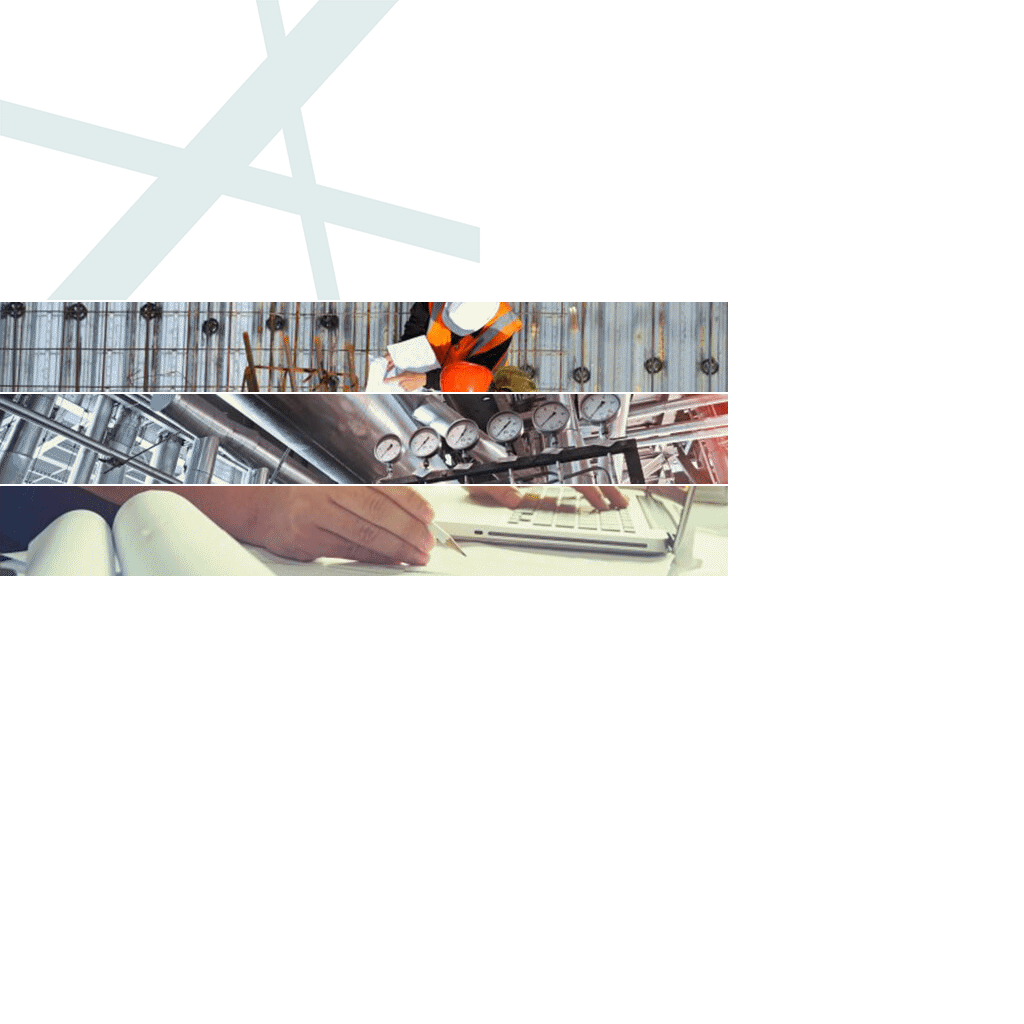
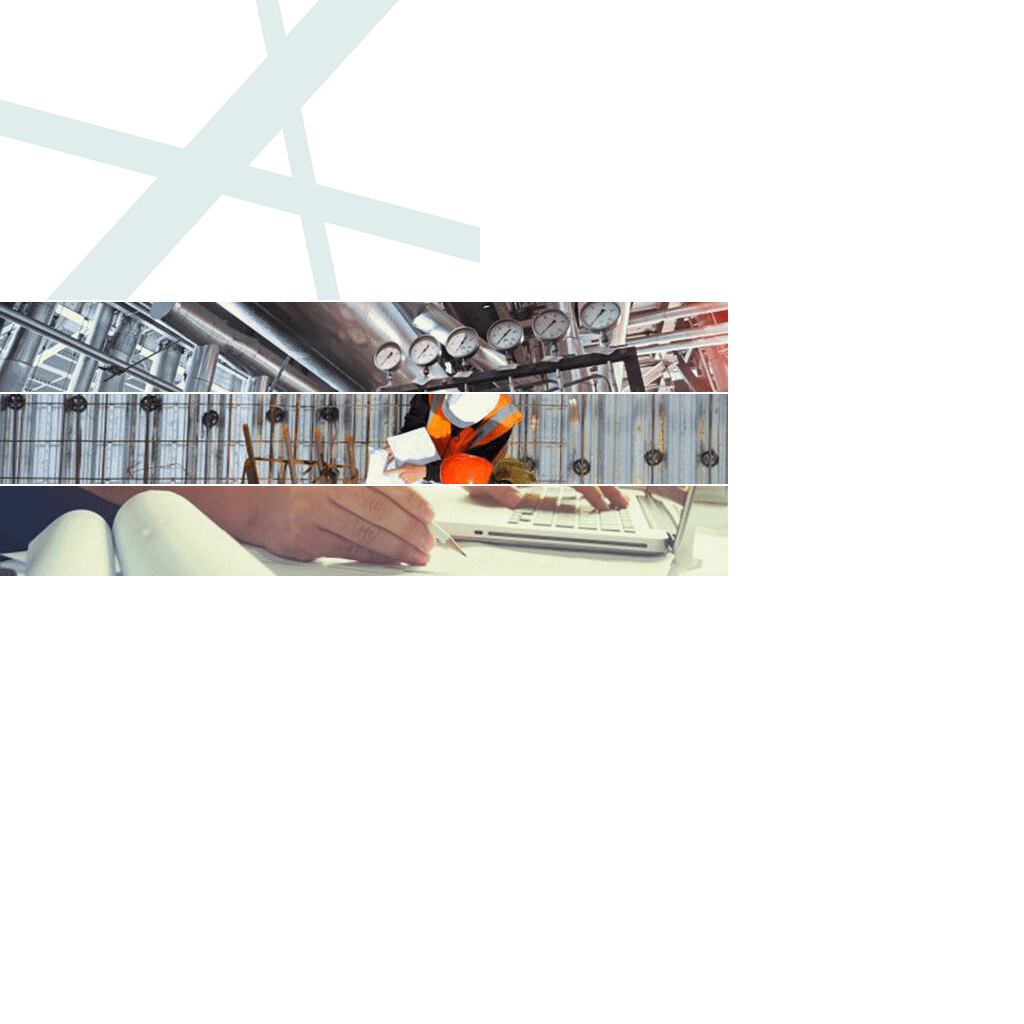
Add files via upload

Changed region(s): [[0.0, 0.2812, 0.7188, 0.5]]

diff --git a/projector_728x90.js b/projector_728x90.js
@@ -3,7 +3,7 @@
 var p; // shortcut to reference prototypes
 var lib={};var ss={};var img={};
 lib.ssMetadata = [
-		{name:"projector_728x90_atlas_", frames: [[0,486,728,90],[0,394,728,90],[0,302,728,90],[0,0,480,300]]}
+		{name:"projector_728x90_atlas_", frames: [[0,486,728,90],[0,302,728,90],[0,394,728,90],[0,0,480,300]]}
 ];
 
 
@@ -633,6 +633,47 @@ function getMCSymbolPrototype(symbol, nominalBounds, frameBounds) {
 }).prototype = getMCSymbolPrototype(lib.logo, new cjs.Rectangle(256.4,-119.6,103.2,21.9), null);
 
 
+(lib.btn = function(mode,startPosition,loop) {
+	this.initialize(mode,startPosition,loop,{});
+
+	// Layer_1
+	this.shape = new cjs.Shape();
[1 lines of base64/hex data omitted]
+	this.shape.setTransform(30.8,-187.6);
+
+	this.shape_1 = new cjs.Shape();
[1 lines of base64/hex data omitted]
+	this.shape_1.setTransform(16,-187.6);
+
+	this.shape_2 = new cjs.Shape();
+	this.shape_2.graphics.f("#FFFFFF").s().p("AgJA+IAAh7IATAAIAAB7g");
+	this.shape_2.setTransform(4.8,-187.6);
+
+	this.shape_3 = new cjs.Shape();
+	this.shape_3.graphics.f("#FFFFFF").s().p("AglA+IAAh7IAVAAIAABoIA2AAIAAATg");
+	this.shape_3.setTransform(-5.2,-187.6);
+
+	this.shape_4 = new cjs.Shape();
+	this.shape_4.graphics.f("#FFFFFF").s().p("AgoA+IAAh7IBRAAIAAASIg9AAIAAAiIA1AAIAAARIg1AAIAAAkIA9AAIAAASg");
+	this.shape_4.setTransform(-26,-187.6);
+
+	this.shape_5 = new cjs.Shape();
+	this.shape_5.graphics.f("#FFFFFF").s().p("AgjA6QgKgFgDgMQgDgNAAgcQAAgcADgMQADgMAKgFQALgFAYAAQAZAAAKAFQALAFADAMQADAMAAAcQAAAcgDANQgDAMgLAFQgKAFgZAAQgYAAgLgFgAgVgqQgGACgCAJQgBAIAAAXQAAAYABAIQACAIAGADQAFACAQAAQAQAAAGgCQAGgDACgIQABgIAAgYQAAgXgBgIQgCgJgGgCQgGgCgQAAQgQAAgFACg");
+	this.shape_5.setTransform(-41.2,-187.6);
+
+	this.shape_6 = new cjs.Shape();
+	this.shape_6.graphics.f("#FFFFFF").s().p("AglA+IAAh7IAVAAIAABoIA2AAIAAATg");
+	this.shape_6.setTransform(-54.9,-187.6);
+
+	this.shape_7 = new cjs.Shape();
+	this.shape_7.graphics.f("#EA322E").s().p("AzDDoQgKAAAAgJIAAm9QAAgJAKAAMAmHAAAQAKAAAAAJIAAG9QAAAJgKAAg");
+	this.shape_7.setTransform(-9,-187.1);
+
+	this.timeline.addTween(cjs.Tween.get({}).to({state:[{t:this.shape_7},{t:this.shape_6},{t:this.shape_5},{t:this.shape_4},{t:this.shape_3},{t:this.shape_2},{t:this.shape_1},{t:this.shape}]}).wait(1));
+
+}).prototype = getMCSymbolPrototype(lib.btn, new cjs.Rectangle(-132,-210.3,246,46.4), null);
+
+
 (lib.boxtrans2 = function(mode,startPosition,loop) {
 	this.initialize(mode,startPosition,loop,{});
 
@@ -750,7 +791,7 @@ if (loop == null) { loop = false; }	this.initialize(mode,startPosition,loop,{});
 	this.instance.alpha = 0;
 	this.instance._off = true;
 
-	this.timeline.addTween(cjs.Tween.get(this.instance).wait(191).to({_off:false},0).to({x:95.5,alpha:1},13,cjs.Ease.get(1)).wait(35).to({x:-78.5,alpha:0},11,cjs.Ease.get(1)).wait(1));
+	this.timeline.addTween(cjs.Tween.get(this.instance).wait(191).to({_off:false},0).to({x:95.5,alpha:1},13,cjs.Ease.get(1)).wait(35).to({x:-78.5,alpha:0},11,cjs.Ease.get(1)).to({_off:true},1).wait(95));
 
 	// text3
 	this.instance_1 = new lib.text3();
@@ -759,7 +800,7 @@ if (loop == null) { loop = false; }	this.initialize(mode,startPosition,loop,{});
 	this.instance_1.alpha = 0;
 	this.instance_1._off = true;
 
-	this.timeline.addTween(cjs.Tween.get(this.instance_1).wait(149).to({_off:false},0).to({x:123.9,alpha:1},11,cjs.Ease.get(1)).wait(31).to({x:-96,alpha:0},8,cjs.Ease.get(1)).to({_off:true},1).wait(51));
+	this.timeline.addTween(cjs.Tween.get(this.instance_1).wait(149).to({_off:false},0).to({x:123.9,alpha:1},11,cjs.Ease.get(1)).wait(31).to({x:-96,alpha:0},8,cjs.Ease.get(1)).to({_off:true},1).wait(146));
 
 	// text2
 	this.instance_2 = new lib.text2();
@@ -768,7 +809,7 @@ if (loop == null) { loop = false; }	this.initialize(mode,startPosition,loop,{});
 	this.instance_2.alpha = 0;
 	this.instance_2._off = true;
 
-	this.timeline.addTween(cjs.Tween.get(this.instance_2).wait(95).to({_off:false},0).to({x:168,alpha:1},14,cjs.Ease.get(1)).wait(40).to({x:-82.9,alpha:0},11,cjs.Ease.get(1)).to({_off:true},1).wait(90));
+	this.timeline.addTween(cjs.Tween.get(this.instance_2).wait(95).to({_off:false},0).to({x:168,alpha:1},14,cjs.Ease.get(1)).wait(40).to({x:-82.9,alpha:0},11,cjs.Ease.get(1)).to({_off:true},1).wait(185));
 
 	// text1
 	this.instance_3 = new lib.text1();
@@ -777,7 +818,7 @@ if (loop == null) { loop = false; }	this.initialize(mode,startPosition,loop,{});
 	this.instance_3.alpha = 0;
 	this.instance_3._off = true;
 
-	this.timeline.addTween(cjs.Tween.get(this.instance_3).wait(28).to({_off:false},0).to({x:168,alpha:1},15,cjs.Ease.get(1)).wait(52).to({x:-44.9,alpha:0},14,cjs.Ease.get(1)).wait(142));
+	this.timeline.addTween(cjs.Tween.get(this.instance_3).wait(28).to({_off:false},0).to({x:168,alpha:1},15,cjs.Ease.get(1)).wait(52).to({x:-44.9,alpha:0},14,cjs.Ease.get(1)).to({_off:true},142).wait(95));
 
 	// box2 copy
 	this.instance_4 = new lib.box2();
@@ -786,7 +827,7 @@ if (loop == null) { loop = false; }	this.initialize(mode,startPosition,loop,{});
 	this.instance_4.alpha = 0;
 	this.instance_4._off = true;
 
-	this.timeline.addTween(cjs.Tween.get(this.instance_4).wait(191).to({_off:false},0).to({x:40,alpha:1},14,cjs.Ease.get(1)).wait(34).to({x:20},0).to({x:398,alpha:0},11,cjs.Ease.get(1)).wait(1));
+	this.timeline.addTween(cjs.Tween.get(this.instance_4).wait(191).to({_off:false},0).to({x:40,alpha:1},14,cjs.Ease.get(1)).wait(34).to({x:20},0).to({x:398,alpha:0},11,cjs.Ease.get(1)).to({_off:true},1).wait(95));
 
 	// box copy
 	this.instance_5 = new lib.box();
@@ -795,7 +836,7 @@ if (loop == null) { loop = false; }	this.initialize(mode,startPosition,loop,{});
 	this.instance_5.alpha = 0.75;
 	this.instance_5._off = true;
 
-	this.timeline.addTween(cjs.Tween.get(this.instance_5).wait(149).to({_off:false},0).wait(1).to({regX:77.3,regY:-131.9,x:-208,y:-110.4,alpha:0.774},0).wait(1).to({x:-176.2,alpha:0.798},0).wait(1).to({x:-146,alpha:0.819},0).wait(1).to({x:-117.6,alpha:0.84},0).wait(1).to({x:-90.9,alpha:0.859},0).wait(1).to({x:-65.9,alpha:0.878},0).wait(1).to({x:-42.7,alpha:0.894},0).wait(1).to({x:-21.2,alpha:0.91},0).wait(1).to({x:-1.3,alpha:0.924},0).wait(1).to({x:16.7,alpha:0.938},0).wait(1).to({x:33.1,alpha:0.949},0).wait(1).to({x:47.7,alpha:0.96},0).wait(1).to({x:60.7,alpha:0.969},0).wait(1).to({x:71.8,alpha:0.978},0).wait(1).to({x:81.3,alpha:0.984},0).wait(1).to({x:89,alpha:0.99},0).wait(1).to({x:95,alpha:0.994},0).wait(1).to({x:99.4,alpha:0.998},0).wait(1).to({x:101.9,alpha:0.999},0).wait(1).to({regX:0,regY:0,x:25.5,y:21.5,alpha:1},0).wait(22).to({x:-321.4},14,cjs.Ease.get(1)).to({_off:true},36).wait(10));
+	this.timeline.addTween(cjs.Tween.get(this.instance_5).wait(149).to({_off:false},0).wait(1).to({regX:77.3,regY:-131.9,x:-208,y:-110.4,alpha:0.774},0).wait(1).to({x:-176.2,alpha:0.798},0).wait(1).to({x:-146,alpha:0.819},0).wait(1).to({x:-117.6,alpha:0.84},0).wait(1).to({x:-90.9,alpha:0.859},0).wait(1).to({x:-65.9,alpha:0.878},0).wait(1).to({x:-42.7,alpha:0.894},0).wait(1).to({x:-21.2,alpha:0.91},0).wait(1).to({x:-1.3,alpha:0.924},0).wait(1).to({x:16.7,alpha:0.938},0).wait(1).to({x:33.1,alpha:0.949},0).wait(1).to({x:47.7,alpha:0.96},0).wait(1).to({x:60.7,alpha:0.969},0).wait(1).to({x:71.8,alpha:0.978},0).wait(1).to({x:81.3,alpha:0.984},0).wait(1).to({x:89,alpha:0.99},0).wait(1).to({x:95,alpha:0.994},0).wait(1).to({x:99.4,alpha:0.998},0).wait(1).to({x:101.9,alpha:0.999},0).wait(1).to({regX:0,regY:0,x:25.5,y:21.5,alpha:1},0).wait(22).to({x:-321.4},14,cjs.Ease.get(1)).to({_off:true},36).wait(105));
 
 	// box2
 	this.instance_6 = new lib.box2();
@@ -804,7 +845,7 @@ if (loop == null) { loop = false; }	this.initialize(mode,startPosition,loop,{});
 	this.instance_6.alpha = 0;
 	this.instance_6._off = true;
 
-	this.timeline.addTween(cjs.Tween.get(this.instance_6).wait(95).to({_off:false},0).to({x:20,alpha:1},14,cjs.Ease.get(1)).wait(40).to({x:-253.9,alpha:0},11,cjs.Ease.get(1)).to({_off:true},1).wait(90));
+	this.timeline.addTween(cjs.Tween.get(this.instance_6).wait(95).to({_off:false},0).to({x:20,alpha:1},14,cjs.Ease.get(1)).wait(40).to({x:-253.9,alpha:0},11,cjs.Ease.get(1)).to({_off:true},1).wait(185));
 
 	// box
 	this.instance_7 = new lib.box();
@@ -813,56 +854,65 @@ if (loop == null) { loop = false; }	this.initialize(mode,startPosition,loop,{});
 	this.instance_7.alpha = 0.75;
 	this.instance_7._off = true;
 
-	this.timeline.addTween(cjs.Tween.get(this.instance_7).wait(18).to({_off:false},0).wait(1).to({regX:77.3,regY:-131.9,x:-208.3,y:-110.4,alpha:0.774},0).wait(1).to({x:-167.2,alpha:0.798},0).wait(1).to({x:-128.3,alpha:0.819},0).wait(1).to({x:-91.6,alpha:0.84},0).wait(1).to({x:-57.2,alpha:0.859},0).wait(1).to({x:-24.9,alpha:0.878},0).wait(1).to({x:5.1,alpha:0.894},0).wait(1).to({x:32.8,alpha:0.91},0).wait(1).to({x:58.4,alpha:0.924},0).wait(1).to({x:81.7,alpha:0.938},0).wait(1).to({x:102.8,alpha:0.949},0).wait(1).to({x:121.7,alpha:0.96},0).wait(1).to({x:138.4,alpha:0.969},0).wait(1).to({x:152.8,alpha:0.978},0).wait(1).to({x:165,alpha:0.984},0).wait(1).to({x:175,alpha:0.99},0).wait(1).to({x:182.8,alpha:0.994},0).wait(1).to({x:188.4,alpha:0.998},0).wait(1).to({x:191.7,alpha:0.999},0).wait(1).to({regX:0,regY:0,x:115.5,y:21.5,alpha:1},0).wait(57).to({x:-321.4},14,cjs.Ease.get(1)).to({_off:true},1).wait(141));
+	this.timeline.addTween(cjs.Tween.get(this.instance_7).wait(18).to({_off:false},0).wait(1).to({regX:77.3,regY:-131.9,x:-208.3,y:-110.4,alpha:0.774},0).wait(1).to({x:-167.2,alpha:0.798},0).wait(1).to({x:-128.3,alpha:0.819},0).wait(1).to({x:-91.6,alpha:0.84},0).wait(1).to({x:-57.2,alpha:0.859},0).wait(1).to({x:-24.9,alpha:0.878},0).wait(1).to({x:5.1,alpha:0.894},0).wait(1).to({x:32.8,alpha:0.91},0).wait(1).to({x:58.4,alpha:0.924},0).wait(1).to({x:81.7,alpha:0.938},0).wait(1).to({x:102.8,alpha:0.949},0).wait(1).to({x:121.7,alpha:0.96},0).wait(1).to({x:138.4,alpha:0.969},0).wait(1).to({x:152.8,alpha:0.978},0).wait(1).to({x:165,alpha:0.984},0).wait(1).to({x:175,alpha:0.99},0).wait(1).to({x:182.8,alpha:0.994},0).wait(1).to({x:188.4,alpha:0.998},0).wait(1).to({x:191.7,alpha:0.999},0).wait(1).to({regX:0,regY:0,x:115.5,y:21.5,alpha:1},0).wait(57).to({x:-321.4},14,cjs.Ease.get(1)).to({_off:true},1).wait(236));
+
+	// btn
+	this.instance_8 = new lib.btn();
+	this.instance_8.parent = this;
+	this.instance_8.setTransform(170,328);
+	this.instance_8.alpha = 0;
+	this.instance_8._off = true;
+
+	this.timeline.addTween(cjs.Tween.get(this.instance_8).wait(250).to({_off:false},0).to({y:233,alpha:1},10,cjs.Ease.get(1)).wait(74).to({alpha:0},11).wait(1));
 
 	// logo
-	this.instance_8 = new lib.logo();
-	this.instance_8.parent = this;
-	this.instance_8.setTransform(121,-20.5,1.601,1.601);
-	this.instance_8.alpha = 0;
+	this.instance_9 = new lib.logo();
+	this.instance_9.parent = this;
+	this.instance_9.setTransform(121,-20.5,1.601,1.601);
+	this.instance_9.alpha = 0;
 
-	this.timeline.addTween(cjs.Tween.get(this.instance_8).to({y:224.5,alpha:1},18,cjs.Ease.get(1)).wait(221).to({alpha:0},11).wait(1));
+	this.timeline.addTween(cjs.Tween.get(this.instance_9).to({y:224.5,alpha:1},18,cjs.Ease.get(1)).wait(316).to({alpha:0},11).wait(1));
 
 	// Layer_2
-	this.instance_9 = new lib.logobg();
-	this.instance_9.parent = this;
-	this.instance_9.setTransform(49.5,337.5);
+	this.instance_10 = new lib.logobg();
+	this.instance_10.parent = this;
+	this.instance_10.setTransform(49.5,337.5);
 
-	this.timeline.addTween(cjs.Tween.get(this.instance_9).to({_off:true},239).wait(12));
+	this.timeline.addTween(cjs.Tween.get(this.instance_10).to({_off:true},239).wait(107));
 
 	// A
-	this.instance_10 = new lib.A_1();
-	this.instance_10.parent = this;
-	this.instance_10.setTransform(130.8,141.1);
-	this.instance_10.alpha = 0;
+	this.instance_11 = new lib.A_1();
+	this.instance_11.parent = this;
+	this.instance_11.setTransform(130.8,141.1);
+	this.instance_11.alpha = 0;
 
-	this.timeline.addTween(cjs.Tween.get(this.instance_10).wait(1).to({regX:367,regY:-141.9,x:498.4,y:-0.8,alpha:0.112},0).wait(1).to({x:498.9,alpha:0.224},0).wait(1).to({x:499.4,alpha:0.336},0).wait(1).to({x:500,alpha:0.448},0).wait(1).to({x:500.5,alpha:0.559},0).wait(1).to({x:501.1,alpha:0.67},0).wait(1).to({x:501.6,alpha:0.78},0).wait(1).to({x:502.2,alpha:0.89},0).wait(1).to({regX:0,regY:0,x:135.7,y:141.1,alpha:1},0).wait(1).to({regX:367,regY:-141.9,x:503.5,y:-0.8},0).wait(1).to({x:504.3},0).wait(1).to({x:505},0).wait(1).to({x:505.8},0).wait(1).to({x:506.6},0).wait(1).to({x:507.3},0).wait(1).to({x:508.1},0).wait(1).to({x:508.8},0).wait(1).to({x:509.6},0).wait(1).to({x:510.3},0).wait(1).to({x:511.1},0).wait(1).to({x:511.8},0).wait(1).to({x:512.5},0).wait(1).to({x:513.3},0).wait(1).to({x:514},0).wait(1).to({x:514.7},0).wait(1).to({x:515.5},0).wait(1).to({x:516.2},0).wait(1).to({x:516.9},0).wait(1).to({x:517.6},0).wait(1).to({x:518.3},0).wait(1).to({x:519},0).wait(1).to({x:519.7},0).wait(1).to({x:520.4},0).wait(1).to({x:521.1},0).wait(1).to({x:521.8},0).wait(1).to({x:522.5},0).wait(1).to({x:523.2},0).wait(1).to({x:523.9},0).wait(1).to({x:524.6},0).wait(1).to({x:525.3},0).wait(1).to({x:525.9},0).wait(1).to({x:526.6},0).wait(1).to({x:527.3},0).wait(1).to({x:527.9},0).wait(1).to({x:528.6},0).wait(1).to({x:529.3},0).wait(1).to({x:529.9},0).wait(1).to({x:530.6},0).wait(1).to({x:531.2},0).wait(1).to({x:531.9},0).wait(1).to({x:532.5},0).wait(1).to({x:533.2},0).wait(1).to({x:533.8},0).wait(1).to({x:534.4},0).wait(1).to({x:535.1},0).wait(1).to({x:535.7},0).wait(1).to({x:536.3},0).wait(1).to({x:536.9},0).wait(1).to({x:537.5},0).wait(1).to({x:538.1},0).wait(1).to({x:538.8},0).wait(1).to({x:539.4},0).wait(1).to({x:540},0).wait(1).to({x:540.6},0).wait(1).to({x:541.2},0).wait(1).to({x:541.8},0).wait(1).to({x:542.3},0).wait(1).to({x:542.9},0).wait(1).to({x:543.5},0).wait(1).to({x:544.1},0).wait(1).to({x:544.7},0).wait(1).to({x:545.2},0).wait(1).to({x:545.8},0).wait(1).to({x:546.4},0).wait(1).to({x:546.9},0).wait(1).to({x:547.5},0).wait(1).to({x:548.1},0).wait(1).to({x:548.6},0).wait(1).to({x:549.2},0).wait(1).to({x:549.7},0).wait(1).to({x:550.3},0).wait(1).to({x:550.8},0).wait(1).to({x:551.3},0).wait(1).to({x:551.9},0).wait(1).to({x:552.4},0).wait(1).to({x:552.9},0).wait(1).to({x:553.5},0).wait(1).to({x:554},0).wait(1).to({x:554.5},0).wait(1).to({x:555},0).wait(1).to({x:555.5},0).wait(1).to({x:556},0).wait(1).to({x:556.5},0).wait(1).to({x:557},0).wait(1).to({x:557.5},0).wait(1).to({x:558},0).wait(1).to({x:558.5},0).wait(1).to({x:559},0).wait(1).to({x:559.5},0).wait(1).to({x:560},0).wait(1).to({x:560.4},0).wait(1).to({x:560.9},0).wait(1).to({x:561.4},0).wait(1).to({x:561.9},0).wait(1).to({x:562.3},0).wait(1).to({x:562.8},0).wait(1).to({x:563.2},0).wait(1).to({x:563.7},0).wait(1).to({x:564.2},0).wait(1).to({x:564.6},0).wait(1).to({x:565},0).wait(1).to({x:565.5},0).wait(1).to({x:565.9},0).wait(1).to({x:566.4},0).wait(1).to({x:566.8},0).wait(1).to({x:567.2},0).wait(1).to({x:567.6},0).wait(1).to({x:568.1},0).wait(1).to({x:568.5},0).wait(1).to({x:568.9},0).wait(1).to({x:569.3},0).wait(1).to({x:569.7},0).wait(1).to({x:570.1},0).wait(1).to({x:570.5},0).wait(1).to({x:570.9},0).wait(1).to({x:571.3},0).wait(1).to({x:571.7},0).wait(1).to({x:572.1},0).wait(1).to({x:572.5},0).wait(1).to({x:572.9},0).wait(1).to({x:573.3},0).wait(1).to({x:573.6},0).wait(1).to({x:574},0).wait(1).to({x:574.4},0).wait(1).to({x:574.7},0).wait(1).to({x:575.1},0).wait(1).to({x:575.5},0).wait(1).to({x:575.8},0).wait(1).to({x:576.2},0).wait(1).to({x:576.5},0).wait(1).to({x:576.9},0).wait(1).to({x:577.2},0).wait(1).to({x:577.6},0).wait(1).to({x:577.9},0).wait(1).to({x:578.2},0).wait(1).to({x:578.6},0).wait(1).to({x:578.9},0).wait(1).to({x:579.2},0).wait(1).to({x:579.5},0).wait(1).to({x:579.8},0).wait(1).to({x:580.2},0).wait(1).to({x:580.5},0).wait(1).to({x:580.8},0).wait(1).to({x:581.1},0).wait(1).to({x:581.4},0).wait(1).to({x:581.7},0).wait(1).to({x:582},0).wait(1).to({x:582.3},0).wait(1).to({x:582.6},0).wait(1).to({x:582.8},0).wait(1).to({x:583.1},0).wait(1).to({x:583.4},0).wait(1).to({x:583.7},0).wait(1).to({x:583.9},0).wait(1).to({x:584.2},0).wait(1).to({x:584.5},0).wait(1).to({x:584.7},0).wait(1).to({x:585},0).wait(1).to({x:585.2},0).wait(1).to({x:585.5},0).wait(1).to({x:585.7},0).wait(1).to({x:586},0).wait(1).to({x:586.2},0).wait(1).to({x:586.5},0).wait(1).to({x:586.7},0).wait(1).to({x:586.9},0).wait(1).to({x:587.2},0).wait(1).to({x:587.4},0).wait(1).to({x:587.6},0).wait(1).to({x:587.8},0).wait(1).to({x:588},0).wait(1).to({x:588.3},0).wait(1).to({x:588.5},0).wait(1).to({x:588.7},0).wait(1).to({x:588.9},0).wait(1).to({x:589.1},0).wait(1).to({x:589.3},0).wait(1).to({x:589.5},0).wait(1).to({x:589.6},0).wait(1).to({x:589.8},0).wait(1).to({x:590},0).wait(1).to({x:590.2},0).wait(1).to({x:590.4},0).wait(1).to({x:590.5},0).wait(1).to({x:590.7},0).wait(1).to({x:590.9},0).wait(1).to({x:591},0).wait(1).to({x:591.2},0).wait(1).to({x:591.4},0).wait(1).to({x:591.5},0).wait(1).to({x:591.7},0).wait(1).to({x:591.8},0).wait(1).to({x:591.9},0).wait(1).to({x:592.1},0).wait(1).to({x:592.2},0).wait(1).to({x:592.4},0).wait(1).to({x:592.5},0).wait(1).to({x:592.6},0).wait(1).to({x:592.7},0).wait(1).to({x:592.9},0).wait(1).to({x:593},0).wait(1).to({x:593.1},0).wait(1).to({x:593.2},0).wait(1).to({x:593.3},0).wait(1).to({x:593.4},0).wait(1).to({x:593.5},0).wait(1).to({x:593.6},0).wait(1).to({x:593.7},0).wait(1).to({x:593.8},0).wait(1).to({x:593.9},0).wait(1).to({x:594},0).wait(2).to({x:594.1},0).wait(1).to({x:594.2},0).wait(1).to({x:594.3},0).wait(2).to({x:594.4},0).wait(2).to({x:594.5},0).wait(1).to({x:594.6},0).wait(2).to({x:594.7},0).wait(3).to({x:594.8},0).wait(3).to({x:594.9},0).wait(1).to({regX:0,regY:0,x:227.9,y:141.1},0).wait(1).to({regX:367,regY:-141.9,x:594.9,y:-0.8,alpha:0.826},0).wait(1).to({alpha:0.669},0).wait(1).to({alpha:0.529},0).wait(1).to({x:595,alpha:0.405},0).wait(1).to({alpha:0.298},0).wait(1).to({alpha:0.207},0).wait(1).to({alpha:0.132},0).wait(1).to({alpha:0.074},0).wait(1).to({alpha:0.033},0).wait(1).to({alpha:0.008},0).wait(1).to({regX:0,regY:0,x:228,y:141.1,alpha:0},0).wait(1));
+	this.timeline.addTween(cjs.Tween.get(this.instance_11).wait(1).to({regX:367,regY:-141.9,x:498.4,y:-0.8,alpha:0.112},0).wait(1).to({x:498.9,alpha:0.224},0).wait(1).to({x:499.4,alpha:0.336},0).wait(1).to({x:500,alpha:0.448},0).wait(1).to({x:500.5,alpha:0.559},0).wait(1).to({x:501.1,alpha:0.67},0).wait(1).to({x:501.6,alpha:0.78},0).wait(1).to({x:502.2,alpha:0.89},0).wait(1).to({regX:0,regY:0,x:135.7,y:141.1,alpha:1},0).wait(1).to({regX:367,regY:-141.9,x:503.5,y:-0.8},0).wait(1).to({x:504.3},0).wait(1).to({x:505},0).wait(1).to({x:505.8},0).wait(1).to({x:506.6},0).wait(1).to({x:507.3},0).wait(1).to({x:508.1},0).wait(1).to({x:508.8},0).wait(1).to({x:509.6},0).wait(1).to({x:510.3},0).wait(1).to({x:511.1},0).wait(1).to({x:511.8},0).wait(1).to({x:512.5},0).wait(1).to({x:513.3},0).wait(1).to({x:514},0).wait(1).to({x:514.7},0).wait(1).to({x:515.5},0).wait(1).to({x:516.2},0).wait(1).to({x:516.9},0).wait(1).to({x:517.6},0).wait(1).to({x:518.3},0).wait(1).to({x:519},0).wait(1).to({x:519.7},0).wait(1).to({x:520.4},0).wait(1).to({x:521.1},0).wait(1).to({x:521.8},0).wait(1).to({x:522.5},0).wait(1).to({x:523.2},0).wait(1).to({x:523.9},0).wait(1).to({x:524.6},0).wait(1).to({x:525.3},0).wait(1).to({x:525.9},0).wait(1).to({x:526.6},0).wait(1).to({x:527.3},0).wait(1).to({x:527.9},0).wait(1).to({x:528.6},0).wait(1).to({x:529.3},0).wait(1).to({x:529.9},0).wait(1).to({x:530.6},0).wait(1).to({x:531.2},0).wait(1).to({x:531.9},0).wait(1).to({x:532.5},0).wait(1).to({x:533.2},0).wait(1).to({x:533.8},0).wait(1).to({x:534.4},0).wait(1).to({x:535.1},0).wait(1).to({x:535.7},0).wait(1).to({x:536.3},0).wait(1).to({x:536.9},0).wait(1).to({x:537.5},0).wait(1).to({x:538.1},0).wait(1).to({x:538.8},0).wait(1).to({x:539.4},0).wait(1).to({x:540},0).wait(1).to({x:540.6},0).wait(1).to({x:541.2},0).wait(1).to({x:541.8},0).wait(1).to({x:542.3},0).wait(1).to({x:542.9},0).wait(1).to({x:543.5},0).wait(1).to({x:544.1},0).wait(1).to({x:544.7},0).wait(1).to({x:545.2},0).wait(1).to({x:545.8},0).wait(1).to({x:546.4},0).wait(1).to({x:546.9},0).wait(1).to({x:547.5},0).wait(1).to({x:548.1},0).wait(1).to({x:548.6},0).wait(1).to({x:549.2},0).wait(1).to({x:549.7},0).wait(1).to({x:550.3},0).wait(1).to({x:550.8},0).wait(1).to({x:551.3},0).wait(1).to({x:551.9},0).wait(1).to({x:552.4},0).wait(1).to({x:552.9},0).wait(1).to({x:553.5},0).wait(1).to({x:554},0).wait(1).to({x:554.5},0).wait(1).to({x:555},0).wait(1).to({x:555.5},0).wait(1).to({x:556},0).wait(1).to({x:556.5},0).wait(1).to({x:557},0).wait(1).to({x:557.5},0).wait(1).to({x:558},0).wait(1).to({x:558.5},0).wait(1).to({x:559},0).wait(1).to({x:559.5},0).wait(1).to({x:560},0).wait(1).to({x:560.4},0).wait(1).to({x:560.9},0).wait(1).to({x:561.4},0).wait(1).to({x:561.9},0).wait(1).to({x:562.3},0).wait(1).to({x:562.8},0).wait(1).to({x:563.2},0).wait(1).to({x:563.7},0).wait(1).to({x:564.2},0).wait(1).to({x:564.6},0).wait(1).to({x:565},0).wait(1).to({x:565.5},0).wait(1).to({x:565.9},0).wait(1).to({x:566.4},0).wait(1).to({x:566.8},0).wait(1).to({x:567.2},0).wait(1).to({x:567.6},0).wait(1).to({x:568.1},0).wait(1).to({x:568.5},0).wait(1).to({x:568.9},0).wait(1).to({x:569.3},0).wait(1).to({x:569.7},0).wait(1).to({x:570.1},0).wait(1).to({x:570.5},0).wait(1).to({x:570.9},0).wait(1).to({x:571.3},0).wait(1).to({x:571.7},0).wait(1).to({x:572.1},0).wait(1).to({x:572.5},0).wait(1).to({x:572.9},0).wait(1).to({x:573.3},0).wait(1).to({x:573.6},0).wait(1).to({x:574},0).wait(1).to({x:574.4},0).wait(1).to({x:574.7},0).wait(1).to({x:575.1},0).wait(1).to({x:575.5},0).wait(1).to({x:575.8},0).wait(1).to({x:576.2},0).wait(1).to({x:576.5},0).wait(1).to({x:576.9},0).wait(1).to({x:577.2},0).wait(1).to({x:577.6},0).wait(1).to({x:577.9},0).wait(1).to({x:578.2},0).wait(1).to({x:578.6},0).wait(1).to({x:578.9},0).wait(1).to({x:579.2},0).wait(1).to({x:579.5},0).wait(1).to({x:579.8},0).wait(1).to({x:580.2},0).wait(1).to({x:580.5},0).wait(1).to({x:580.8},0).wait(1).to({x:581.1},0).wait(1).to({x:581.4},0).wait(1).to({x:581.7},0).wait(1).to({x:582},0).wait(1).to({x:582.3},0).wait(1).to({x:582.6},0).wait(1).to({x:582.8},0).wait(1).to({x:583.1},0).wait(1).to({x:583.4},0).wait(1).to({x:583.7},0).wait(1).to({x:583.9},0).wait(1).to({x:584.2},0).wait(1).to({x:584.5},0).wait(1).to({x:584.7},0).wait(1).to({x:585},0).wait(1).to({x:585.2},0).wait(1).to({x:585.5},0).wait(1).to({x:585.7},0).wait(1).to({x:586},0).wait(1).to({x:586.2},0).wait(1).to({x:586.5},0).wait(1).to({x:586.7},0).wait(1).to({x:586.9},0).wait(1).to({x:587.2},0).wait(1).to({x:587.4},0).wait(1).to({x:587.6},0).wait(1).to({x:587.8},0).wait(1).to({x:588},0).wait(1).to({x:588.3},0).wait(1).to({x:588.5},0).wait(1).to({x:588.7},0).wait(1).to({x:588.9},0).wait(1).to({x:589.1},0).wait(1).to({x:589.3},0).wait(1).to({x:589.5},0).wait(1).to({x:589.6},0).wait(1).to({x:589.8},0).wait(1).to({x:590},0).wait(1).to({x:590.2},0).wait(1).to({x:590.4},0).wait(1).to({x:590.5},0).wait(1).to({x:590.7},0).wait(1).to({x:590.9},0).wait(1).to({x:591},0).wait(1).to({x:591.2},0).wait(1).to({x:591.4},0).wait(1).to({x:591.5},0).wait(1).to({x:591.7},0).wait(1).to({x:591.8},0).wait(1).to({x:591.9},0).wait(1).to({x:592.1},0).wait(1).to({x:592.2},0).wait(1).to({x:592.4},0).wait(1).to({x:592.5},0).wait(1).to({x:592.6},0).wait(1).to({x:592.7},0).wait(1).to({x:592.9},0).wait(1).to({x:593},0).wait(1).to({x:593.1},0).wait(1).to({x:593.2},0).wait(1).to({x:593.3},0).wait(1).to({x:593.4},0).wait(1).to({x:593.5},0).wait(1).to({x:593.6},0).wait(1).to({x:593.7},0).wait(1).to({x:593.8},0).wait(1).to({x:593.9},0).wait(1).to({x:594},0).wait(2).to({x:594.1},0).wait(1).to({x:594.2},0).wait(1).to({x:594.3},0).wait(2).to({x:594.4},0).wait(2).to({x:594.5},0).wait(1).to({x:594.6},0).wait(2).to({x:594.7},0).wait(3).to({x:594.8},0).wait(3).to({x:594.9},0).wait(1).to({regX:0,regY:0,x:227.9,y:141.1},0).wait(1).to({regX:367,regY:-141.9,x:594.9,y:-0.8,alpha:0.826},0).wait(1).to({alpha:0.669},0).wait(1).to({alpha:0.529},0).wait(1).to({x:595,alpha:0.405},0).wait(1).to({alpha:0.298},0).wait(1).to({alpha:0.207},0).wait(1).to({alpha:0.132},0).wait(1).to({alpha:0.074},0).wait(1).to({alpha:0.033},0).wait(1).to({alpha:0.008},0).wait(1).to({regX:0,regY:0,x:228,y:141.1,alpha:0},0).to({_off:true},1).wait(95));
 
 	// Layer_3
-	this.instance_11 = new lib.bg2();
-	this.instance_11.parent = this;
-	this.instance_11.setTransform(168,140);
-	this.instance_11.alpha = 0;
-	this.instance_11._off = true;
-
-	this.timeline.addTween(cjs.Tween.get(this.instance_11).wait(195).to({_off:false},0).to({alpha:1},10).wait(34).to({alpha:0},11).wait(1));
-
-	// Layer_4
-	this.instance_12 = new lib.bg3();
+	this.instance_12 = new lib.bg2();
 	this.instance_12.parent = this;
-	this.instance_12.setTransform(507,140);
+	this.instance_12.setTransform(168,140);
 	this.instance_12.alpha = 0;
 	this.instance_12._off = true;
 
-	this.timeline.addTween(cjs.Tween.get(this.instance_12).wait(99).to({_off:false},0).to({x:168,alpha:1},10,cjs.Ease.get(1)).wait(86).to({x:-173,alpha:0},10,cjs.Ease.get(1)).to({_off:true},1).wait(45));
+	this.timeline.addTween(cjs.Tween.get(this.instance_12).wait(195).to({_off:false},0).to({alpha:1},10).wait(34).to({alpha:0},11).to({_off:true},1).wait(95));
+
+	// Layer_4
+	this.instance_13 = new lib.bg3();
+	this.instance_13.parent = this;
+	this.instance_13.setTransform(507,140);
+	this.instance_13.alpha = 0;
+	this.instance_13._off = true;
+
+	this.timeline.addTween(cjs.Tween.get(this.instance_13).wait(99).to({_off:false},0).to({x:168,alpha:1},10,cjs.Ease.get(1)).wait(86).to({x:-173,alpha:0},10,cjs.Ease.get(1)).to({_off:true},1).wait(140));
 
 	// Layer_1
-	this.instance_13 = new lib.bg1();
-	this.instance_13.parent = this;
-	this.instance_13.setTransform(168,140);
-	this.instance_13.alpha = 0;
+	this.instance_14 = new lib.bg1();
+	this.instance_14.parent = this;
+	this.instance_14.setTransform(168,140);
+	this.instance_14.alpha = 0;
 
-	this.timeline.addTween(cjs.Tween.get(this.instance_13).to({alpha:1},18).wait(81).to({alpha:0},10).to({_off:true},1).wait(141));
+	this.timeline.addTween(cjs.Tween.get(this.instance_14).to({alpha:1},18).wait(81).to({alpha:0},10).to({_off:true},1).wait(236));
 
 }).prototype = p = new cjs.MovieClip();
 p.nominalBounds = new cjs.Rectangle(364,-167,852,502.1);
